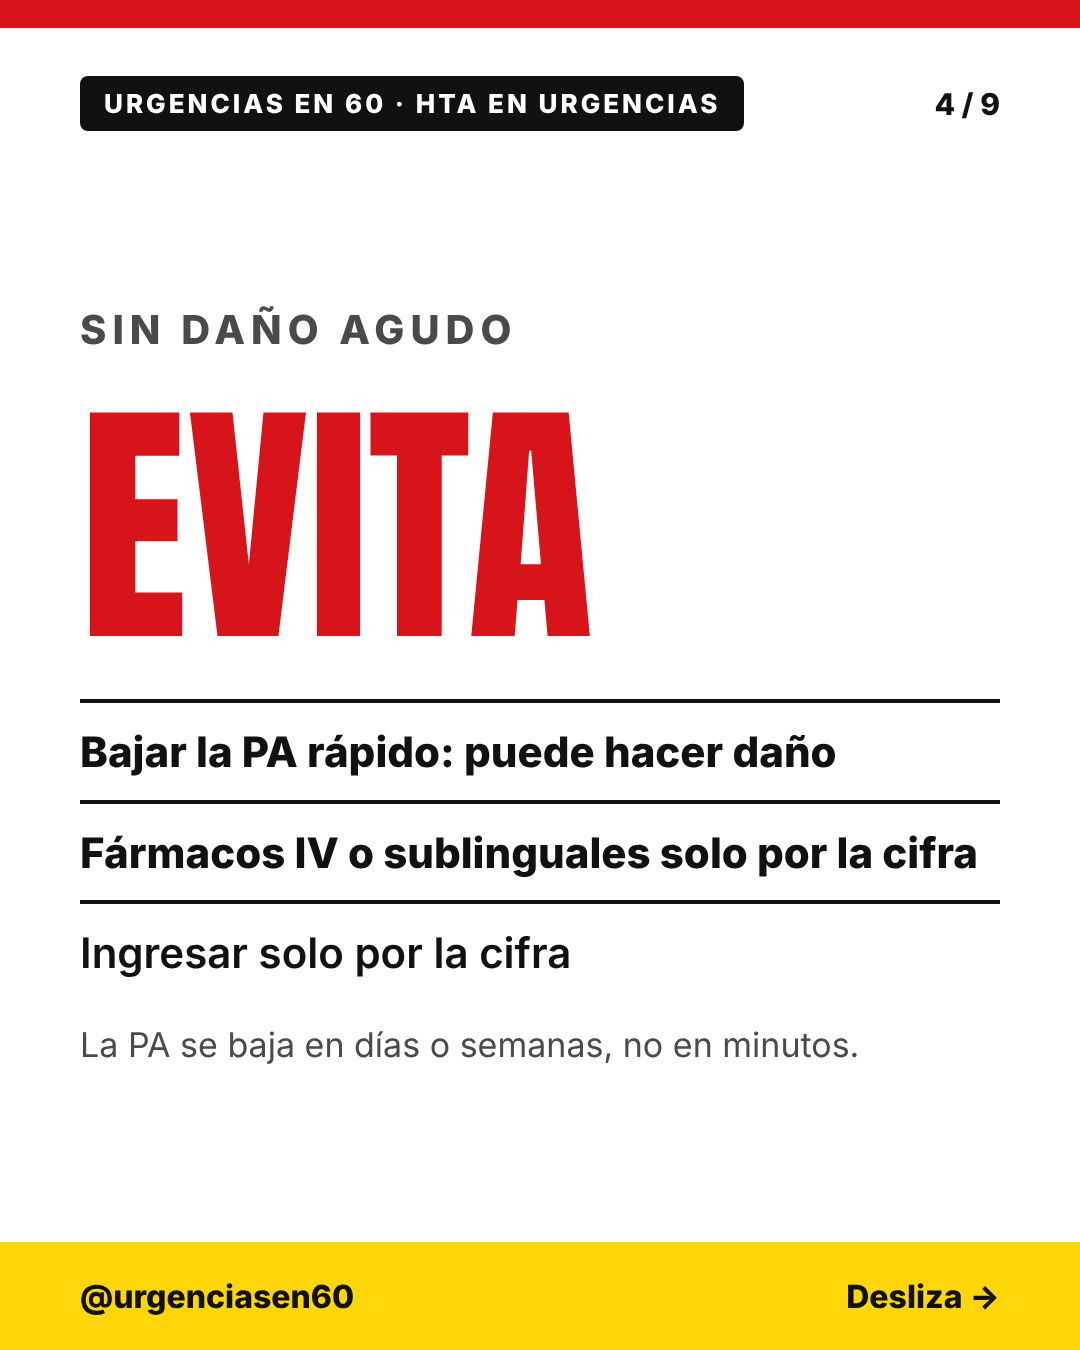
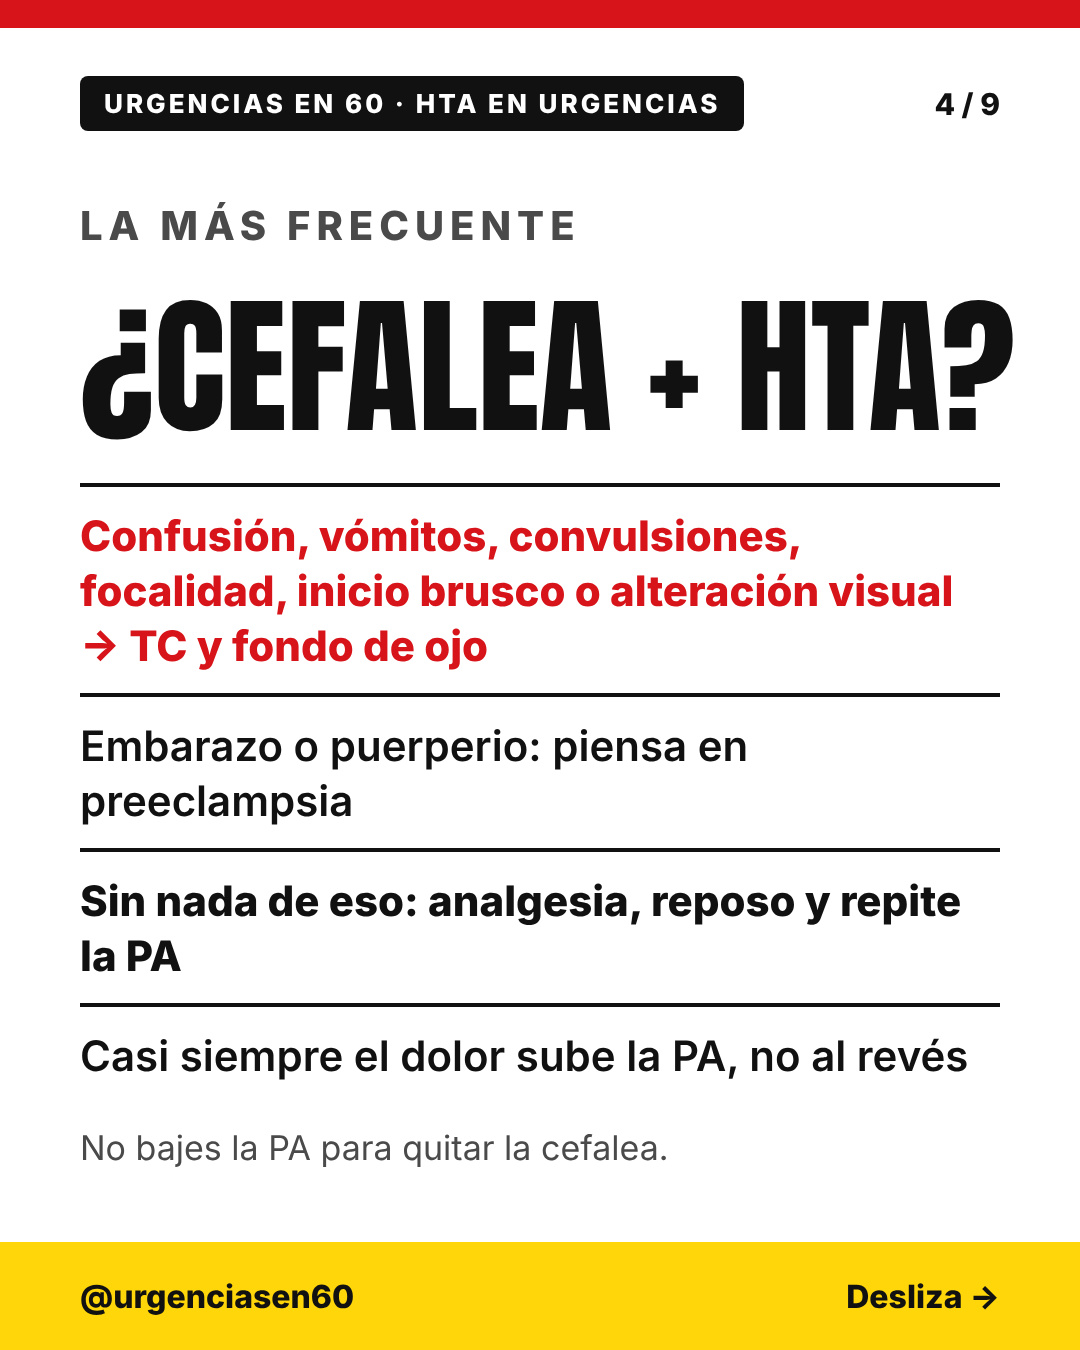
Ficha 11 HTA: diapo cefalea + HTA y fusión sin daño/evita
Claude-Session: https://claude.ai/code/session_019S5PG2ppqwuZwMv2DxeA6e

diff --git a/tools/hta.py b/tools/hta.py
@@ -8,8 +8,8 @@ redline=lambda t: f'<div style="border-top:4px solid {K};padding-top:22px;font-s
 P=[
 page(1,N,T,big("¿200/110?",230,nowrap=True)+big(f'<span style="color:{R}">NO CORRAS</span>',170,nowrap=True)+'<div style="font-size:42px;font-weight:600;line-height:1.3;max-width:860px">Antes de tratar la cifra, busca el daño. Qué hacer, qué evitar y el objetivo en cada emergencia. Con ficha final.</div>',cover=True),
 page(2,N,T,kicker("PRIMERA PREGUNTA")+big("¿HAY DAÑO AGUDO?",122,nowrap=True)+rows(line("Cerebro: focalidad, confusión, convulsiones"),line("Corazón: dolor torácico, edema de pulmón"),line("Aorta: dolor torácico o dorsal desgarrador"),line("Riñón y ojo: fracaso renal agudo, hemorragias o papiledema"),line("Embarazo o puerperio: preeclampsia"))+note("PA ≥ 180/110 con daño agudo = emergencia. Sin daño = HTA grave (la antigua «urgencia hipertensiva»).")),
-page(3,N,T,kicker("SIN DAÑO AGUDO")+big("NO ES UNA EMERGENCIA",100,R,True)+rows(line("Repite la medida con el paciente en reposo",True),line("Trata lo que la sube: dolor, ansiedad, retención urinaria",True),line("No pidas analítica ni ECG solo por la cifra"),line("Reinicia o ajusta el tratamiento oral"),line("Alta con control por su médico, mejor en una semana"))),
-page(4,N,T,kicker("SIN DAÑO AGUDO")+big("EVITA",260,R,True)+rows(line("Bajar la PA rápido: puede hacer daño",True),line("Fármacos IV o sublinguales solo por la cifra",True),line("Ingresar solo por la cifra"))+note("La PA se baja en días o semanas, no en minutos.")),
+page(3,N,T,kicker("SIN DAÑO AGUDO")+big("NO ES UNA EMERGENCIA",100,R,True)+rows(line("Repite la medida en reposo y trata el dolor, la ansiedad o la retención urinaria",True),line("No pidas analítica ni ECG solo por la cifra"),line("Reinicia o ajusta el oral y alta con control en una semana"),redline("Evita: bajarla rápido, IV o sublingual solo por la cifra, ingresar solo por la cifra"))+note("En asintomáticos con PA ≥ 180/110, menos del 1 % tiene un evento cardiovascular a los 6 meses, y derivar al hospital no lo mejora.")),
+page(4,N,T,kicker("LA MÁS FRECUENTE")+big("¿CEFALEA + HTA?",150,nowrap=True)+rows(redline("Confusión, vómitos, convulsiones, focalidad, inicio brusco o alteración visual → TC y fondo de ojo"),line("Embarazo o puerperio: piensa en preeclampsia"),line("Sin nada de eso: analgesia, reposo y repite la PA",True),line("Casi siempre el dolor sube la PA, no al revés"))+note("No bajes la PA para quitar la cefalea.")),
 page(5,N,T,kicker("CON DAÑO · CORAZÓN Y AORTA")+big("OBJETIVO",200,nowrap=True)+rows(obj("SÍNDROME CORONARIO AGUDO","PAS &lt; 140 de inmediato","Nitroglicerina o labetalol"),obj("EDEMA AGUDO DE PULMÓN","PAS &lt; 140 de inmediato","Nitroglicerina + furosemida (alternativa: urapidilo)"),obj("DISECCIÓN AÓRTICA","PAS &lt; 120 y FC &lt; 60 de inmediato","Esmolol + nitroglicerina (alternativa: labetalol)"))),
 page(6,N,T,kicker("CON DAÑO · CEREBRO")+big("OBJETIVO",200,nowrap=True)+rows(obj("ENCEFALOPATÍA HIPERTENSIVA","PAM −20–25 % de inmediato","Labetalol"),obj("ICTUS ISQUÉMICO","Con reperfusión: &lt; 185/110 antes y &lt; 180/105 en 24 h","Sin reperfusión: solo si ≥ 220/120, −15 % en 24 h"),obj("HEMORRAGIA CEREBRAL","PAS 140–160 en las primeras 6 h","No bajes más de 70 mmHg en la primera hora"))),
 page(7,N,T,kicker("CON DAÑO · OTRAS")+big("OBJETIVO",200,nowrap=True)+rows(obj("HTA MALIGNA","PAM −20–25 % en varias horas","Labetalol (alternativa: urapidilo)"),obj("PREECLAMPSIA GRAVE O ECLAMPSIA","PAS &lt; 160 y PAD &lt; 105 de inmediato","Labetalol + sulfato de magnesio. Valorar finalizar la gestación"))+note("Ninguna emergencia se trata bajando la PA a la normalidad de golpe.")),

diff --git a/borradores/REVISION.md b/borradores/REVISION.md
@@ -81,3 +81,4 @@ Dudas para Eduardo:
 - Nicardipino IV no aparece porque no se usa habitualmente en España; confirmar.
 - «Fármacos sublinguales» es genérico (captopril/nifedipino): ¿quieres nombrarlos?
 - Son 9 diapositivas (las fichas anteriores tienen 7). ¿Lo dejamos así o fusionamos 3 y 4?
+- 18/11 (Eduardo): fusionadas 3 y 4 (sin daño + evita) y añadida diapo 4 «¿Cefalea + HTA?». Dato de la nota de la diapo 3: Patel KK, Young L, Howell EH, et al. Characteristics and outcomes of patients presenting with hypertensive urgency in the office setting. JAMA Intern Med. 2016;176(7):981-8 (58 535 pacientes; MACE < 1 % a 6 meses; derivar al hospital no mejoró resultados). Ojo: es población de consulta ambulatoria, no de Urgencias.
